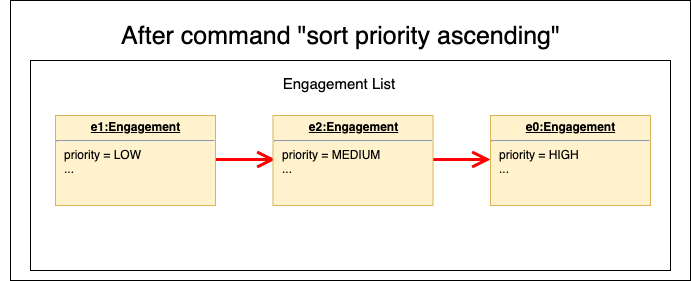
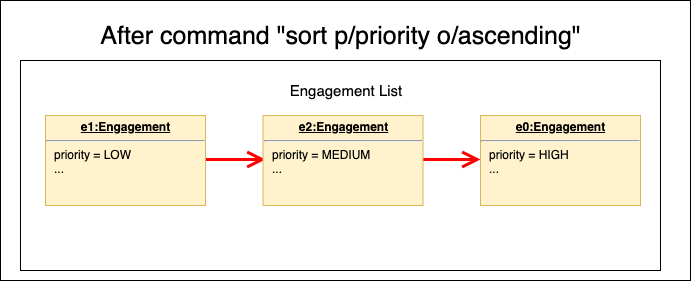
Rebuild pages at 0d759f45ad3cc66ffb670c7cba1c6d874e15a7a1

diff --git a/team/brebeek.html b/team/brebeek.html
@@ -195,7 +195,7 @@ careful tweaks to existing structures.</p>
 <p>Updated part of the find feature (Pull request <a href="https://github.com/AY1920S1-CS2103T-F14-3/main">#111</a>)</p>
 </li>
 <li>
-<p>Wrote additional tests for existing features to increase coverage from 50% to 65% (Pull requests <a href="https://github.com/AY1920S1-CS2103T-F14-3/main">#36</a>, <a href="https://github.com/AY1920S1-CS2103T-F14-3/main">#38</a>)</p>
+<p>Wrote additional tests for existing features to increase coverage from 50% to 65% (e.g. Pull requests <a href="https://github.com/AY1920S1-CS2103T-F14-3/main">#220</a>, <a href="https://github.com/AY1920S1-CS2103T-F14-3/main">#212</a>)</p>
 </li>
 </ul>
 </div>
@@ -205,7 +205,7 @@ careful tweaks to existing structures.</p>
 <div class="ulist">
 <ul>
 <li>
-<p>Did cosmetic tweaks to existing contents of the User Guide: <a href="https://github.com/AY1920S1-CS2103T-F14-3/main">#14</a></p>
+<p>Did cosmetic tweaks to existing contents of the User Guide: <a href="https://github.com/AY1920S1-CS2103T-F14-3/main">#112</a></p>
 </li>
 </ul>
 </div>
@@ -215,7 +215,7 @@ careful tweaks to existing structures.</p>
 <div class="ulist">
 <ul>
 <li>
-<p>PRs reviewed (with non-trivial review comments): <a href="https://github.com/AY1920S1-CS2103T-F14-3/main">#69</a>, <a href="https://github.com/AY1920S1-CS2103T-F14-3/main">#32</a></p>
+<p>PRs reviewed (with non-trivial review comments): <a href="https://github.com/AY1920S1-CS2103T-F14-3/main">#69</a></p>
 </li>
 <li>
 <p>Contributed to forum discussions (examples:  <a href="https://github.com/nus-cs2103-AY1920S1/addressbook-level3">#11</a>, <a href="https://github.com/nus-cs2103-AY1920S1/addressbook-level3">#1</a>, <a href="https://github.com/nus-cs2103-AY1920S1/addressbook-level3">#13</a>)</p>
@@ -264,7 +264,7 @@ careful tweaks to existing structures.</p>
 <h3 id="sorting-all-appointments-code-sort-code"><a class="link" href="#sorting-all-appointments-code-sort-code">Sorting all appointments : <code>sort</code></a></h3>
 <div class="paragraph">
 <p>Sorts the list of all appointments in the appointment list by the order specified by user.<br>
-Format: <code>sort p/ PROPERTY o/ORDER</code></p>
+Format: <code>sort p/PROPERTY o/ORDER</code></p>
 </div>
 <div class="admonitionblock tip">
 <table>
@@ -346,12 +346,16 @@ Sorts the list displayed in ascending order of start time.</p>
 </td>
 <td class="content">
 After sorting, commands that require INDEX as an input field (e.g. <code>delete</code>) will take in INDEX with regards to the new list  displayed. e.g. <code>delete 1</code> will delete the current first engagement displayed.
-=== Undoing the previous command : <code>undo</code>
-Undoes the previous command, provided that it exists.<br>
-Format: <code>undo</code>
 </td>
 </tr>
 </table>
+</div>
+</div>
+<div class="sect2">
+<h3 id="undoing-the-previous-command-code-undo-code"><a class="link" href="#undoing-the-previous-command-code-undo-code">Undoing the previous command : <code>undo</code></a></h3>
+<div class="paragraph">
+<p>Undoes the previous command, provided that it exists.<br>
+Format: <code>undo</code></p>
 </div>
 <div class="admonitionblock tip">
 <table>
@@ -498,12 +502,24 @@ Each positive sequence comparator compares two <code>Engagements</code> with the
 </div>
 </div>
 <div class="paragraph">
-<p>Step 2. The user executes <code>sort priority ascending</code> command to sort the engagement list in ascending order of priority. The <code>sort</code> command calls <code>Model#setComparator()</code>, causing the <code>currentComparator</code> in ModelManager to assume the value <code>EngagementComparator#PRIORITY</code>. The command then calls <code>Model#updateSortedEngagementList</code> to execute the sorting.</p>
+<p>Step 2. The user executes <code>sort p/priority o/ascending</code> command to sort the engagement list in ascending order of priority. The <code>sort</code> command calls <code>Model#setComparator()</code>, causing the <code>currentComparator</code> in ModelManager to assume the value <code>EngagementComparator#PRIORITY</code>. The command then calls <code>Model#updateSortedEngagementList</code> to execute the sorting.</p>
 </div>
 <div class="imageblock" style="text-align: center">
 <div class="content">
 <img src="../images/SortListState1.png" alt="SortListState1" width="450">
 </div>
+</div>
+<div class="admonitionblock note">
+<table>
+<tr>
+<td class="icon">
+<i class="fa icon-note" title="Note"></i>
+</td>
+<td class="content">
+The parsing of <code>sort</code> follows the interactive parsing structure <strong><em>Typee</em></strong> adopts, where various stages are created while parsing. See Sequence Diagram below.
+</td>
+</tr>
+</table>
 </div>
 <div class="paragraph">
 <p>The following sequence diagram shows how the sort operation works:</p>
@@ -686,4 +702,4 @@ and carry out administrative tasks.</p>
 </dl>
 </div>
 </div>
-</div></div><div id="footer"><div class="container"><div id="footer-text">Last updated 2019-11-11 02:19:47 UTC</div></div></div></body></html>
+</div></div><div id="footer"><div class="container"><div id="footer-text">Last updated 2019-11-11 02:46:38 UTC</div></div></div></body></html>

diff --git a/DeveloperGuide.html b/DeveloperGuide.html
@@ -452,7 +452,7 @@ If the <code>versionPointer</code> is at index <code>historyList.size() - 1</cod
 </table>
 </div>
 <div class="paragraph">
-<p>Step 5. The user then decides to execute the command <code>sort start ascending</code>. Commands that do not modify the engagement list, such as <code>sort</code>, will usually not call <code>Model#saveEngagementList()</code>, <code>Model#undoEngagementList()</code> or <code>Model#redoEngagementList()</code>. Thus, the <code>historyList</code> remains unchanged.</p>
+<p>Step 5. The user then decides to execute the command <code>sort p/start o/ascending</code>. Commands that do not modify the engagement list, such as <code>sort</code>, will usually not call <code>Model#saveEngagementList()</code>, <code>Model#undoEngagementList()</code> or <code>Model#redoEngagementList()</code>. Thus, the <code>historyList</code> remains unchanged.</p>
 </div>
 <div class="imageblock" style="text-align: center">
 <div class="content">
@@ -1079,12 +1079,24 @@ Each positive sequence comparator compares two <code>Engagements</code> with the
 </div>
 </div>
 <div class="paragraph">
-<p>Step 2. The user executes <code>sort priority ascending</code> command to sort the engagement list in ascending order of priority. The <code>sort</code> command calls <code>Model#setComparator()</code>, causing the <code>currentComparator</code> in ModelManager to assume the value <code>EngagementComparator#PRIORITY</code>. The command then calls <code>Model#updateSortedEngagementList</code> to execute the sorting.</p>
+<p>Step 2. The user executes <code>sort p/priority o/ascending</code> command to sort the engagement list in ascending order of priority. The <code>sort</code> command calls <code>Model#setComparator()</code>, causing the <code>currentComparator</code> in ModelManager to assume the value <code>EngagementComparator#PRIORITY</code>. The command then calls <code>Model#updateSortedEngagementList</code> to execute the sorting.</p>
 </div>
 <div class="imageblock" style="text-align: center">
 <div class="content">
 <img src="images/SortListState1.png" alt="SortListState1" width="450">
 </div>
+</div>
+<div class="admonitionblock note">
+<table>
+<tr>
+<td class="icon">
+<i class="fa icon-note" title="Note"></i>
+</td>
+<td class="content">
+The parsing of <code>sort</code> follows the interactive parsing structure <strong><em>Typee</em></strong> adopts, where various stages are created while parsing. See Sequence Diagram below.
+</td>
+</tr>
+</table>
 </div>
 <div class="paragraph">
 <p>The following sequence diagram shows how the sort operation works:</p>
@@ -2115,4 +2127,4 @@ Expected: The most recent window size and location is retained.</p>
 </div>
 </div>
 </div>
-</div></div><div id="footer"><div class="container"><div id="footer-text">Last updated 2019-11-11 02:19:46 UTC</div></div></div></body></html>
+</div></div><div id="footer"><div class="container"><div id="footer-text">Last updated 2019-11-11 02:46:38 UTC</div></div></div></body></html>

diff --git a/team/johndoe.html b/team/johndoe.html
@@ -271,7 +271,7 @@ If the <code>versionPointer</code> is at index <code>historyList.size() - 1</cod
 </table>
 </div>
 <div class="paragraph">
-<p>Step 5. The user then decides to execute the command <code>sort start ascending</code>. Commands that do not modify the engagement list, such as <code>sort</code>, will usually not call <code>Model#saveEngagementList()</code>, <code>Model#undoEngagementList()</code> or <code>Model#redoEngagementList()</code>. Thus, the <code>historyList</code> remains unchanged.</p>
+<p>Step 5. The user then decides to execute the command <code>sort p/start o/ascending</code>. Commands that do not modify the engagement list, such as <code>sort</code>, will usually not call <code>Model#saveEngagementList()</code>, <code>Model#undoEngagementList()</code> or <code>Model#redoEngagementList()</code>. Thus, the <code>historyList</code> remains unchanged.</p>
 </div>
 <div class="imageblock" style="text-align: center">
 <div class="content">
@@ -375,4 +375,4 @@ If the <code>versionPointer</code> is at index <code>historyList.size() - 1</cod
 <p><em>{Optionally, you may include other projects in your portfolio.}</em></p>
 </div>
 </div>
-</div></div><div id="footer"><div class="container"><div id="footer-text">Last updated 2019-11-11 02:19:47 UTC</div></div></div></body></html>
+</div></div><div id="footer"><div class="container"><div id="footer-text">Last updated 2019-11-11 02:46:38 UTC</div></div></div></body></html>

diff --git a/UserGuide.html b/UserGuide.html
@@ -513,7 +513,7 @@ Format: <code>list</code></p>
 <h3 id="sorting-all-appointments-code-sort-code"><a class="link" href="#sorting-all-appointments-code-sort-code">3.6. Sorting all appointments : <code>sort</code></a></h3>
 <div class="paragraph">
 <p>Sorts the list of all appointments in the appointment list by the order specified by user.<br>
-Format: <code>sort p/ PROPERTY o/ORDER</code></p>
+Format: <code>sort p/PROPERTY o/ORDER</code></p>
 </div>
 <div class="admonitionblock tip">
 <table>
@@ -1143,4 +1143,4 @@ e.g. <code>delete i/3</code></p>
 </ul>
 </div>
 </div>
-</div></div><div id="footer"><div class="container"><div id="footer-text">Last updated 2019-11-11 02:19:46 UTC</div></div></div></body></html>
+</div></div><div id="footer"><div class="container"><div id="footer-text">Last updated 2019-11-11 02:46:38 UTC</div></div></div></body></html>

diff --git a/AboutUs.html b/AboutUs.html
@@ -69,7 +69,7 @@ Responsibilities: Logic</p>
 </div>
 </div>
 <div class="paragraph">
-<p>[<a href="http://github.com/brebeek">github</a>] [<a href="team/johndoe.html">portfolio</a>]</p>
+<p>[<a href="http://github.com/brebeek">github</a>] [<a href="https://ay1920s1-cs2103t-f14-3.github.io/main/team/brebeek.html">portfolio</a>]</p>
 </div>
 <div class="paragraph">
 <p>Role: Developer<br>
@@ -94,4 +94,4 @@ Responsibilities: Typing game</p>
 <hr>
 </div>
 </div>
-</div></div><div id="footer"><div class="container"><div id="footer-text">Last updated 2019-11-11 02:19:46 UTC</div></div></div></body></html>
+</div></div><div id="footer"><div class="container"><div id="footer-text">Last updated 2019-11-11 02:46:38 UTC</div></div></div></body></html>

diff --git a/ContactUs.html b/ContactUs.html
@@ -12,4 +12,4 @@
 <p><strong>Email us</strong> : You can also reach us at <code>lyskevin@gmail.com</code> (Kevin), <code>e0318604@u.nus.edu</code> (Gi Hun), <code>yuchen_hu@u.nus.edu</code> (Yuchen), <code>e0341290@u.nus.edu</code> (Sudharshan), <code>e0309667@u.nus.edu</code> (Jun Hao)</p>
 </li>
 </ul>
-</div></div><div id="footer"><div class="container"><div id="footer-text">Last updated 2019-11-11 02:19:46 UTC</div></div></div></body></html>
+</div></div><div id="footer"><div class="container"><div id="footer-text">Last updated 2019-11-11 02:46:38 UTC</div></div></div></body></html>

diff --git a/tutorials/RemovingFields.html b/tutorials/RemovingFields.html
@@ -175,4 +175,4 @@ While keeping the <code>address</code> field in the json files does not cause th
 <p>You can go through each individual <code>json</code> file and manually remove the <code>address</code> field.</p>
 </div>
 </div>
-</div></div><div id="footer"><div class="container"><div id="footer-text">Last updated 2019-11-11 02:19:47 UTC</div></div></div></body></html>
+</div></div><div id="footer"><div class="container"><div id="footer-text">Last updated 2019-11-11 02:46:38 UTC</div></div></div></body></html>

diff --git a/Testing.html b/Testing.html
@@ -90,4 +90,4 @@ e.g. <code>seedu.address.logic.LogicManagerTest</code></p>
 <div class="title">Figure 1. <code>Accessibility</code> permission is granted to <code>IntelliJ IDEA</code></div>
 </div>
 </div>
-</div></div><div id="footer"><div class="container"><div id="footer-text">Last updated 2019-11-11 02:19:46 UTC</div></div></div></body></html>
+</div></div><div id="footer"><div class="container"><div id="footer-text">Last updated 2019-11-11 02:46:38 UTC</div></div></div></body></html>

diff --git a/tutorials/AddRemark.html b/tutorials/AddRemark.html
@@ -616,4 +616,4 @@ In this case, <code>CommandTestUtil#assertCommandSuccess</code> is the best fit 
 <p>This concludes the tutorial for adding a new <code>Command</code> to AddressBook.</p>
 </div>
 </div>
-</div></div><div id="footer"><div class="container"><div id="footer-text">Last updated 2019-11-11 02:19:47 UTC</div></div></div></body></html>
+</div></div><div id="footer"><div class="container"><div id="footer-text">Last updated 2019-11-11 02:46:38 UTC</div></div></div></body></html>

diff --git a/SettingUp.html b/SettingUp.html
@@ -180,4 +180,4 @@ Having both Travis and AppVeyor ensures your App works on both Unix-based platfo
 </div>
 </div>
 </div>
-</div></div><div id="footer"><div class="container"><div id="footer-text">Last updated 2019-11-11 02:19:46 UTC</div></div></div></body></html>
+</div></div><div id="footer"><div class="container"><div id="footer-text">Last updated 2019-11-11 02:46:38 UTC</div></div></div></body></html>

diff --git a/team/lyskevin.html b/team/lyskevin.html
@@ -576,4 +576,4 @@ The alternative would be to add fixed constraints to the size of each cell but t
 </div>
 </div>
 </div>
-</div></div><div id="footer"><div class="container"><div id="footer-text">Last updated 2019-11-11 02:19:47 UTC</div></div></div></body></html>
+</div></div><div id="footer"><div class="container"><div id="footer-text">Last updated 2019-11-11 02:46:38 UTC</div></div></div></body></html>

diff --git a/UsingCoveralls.html b/UsingCoveralls.html
@@ -111,4 +111,4 @@ If you have not set up Travis CI, see <a href="UsingTravis.html">UsingTravis.ado
 </ol>
 </div>
 </div>
-</div></div><div id="footer"><div class="container"><div id="footer-text">Last updated 2019-11-11 02:19:46 UTC</div></div></div></body></html>
+</div></div><div id="footer"><div class="container"><div id="footer-text">Last updated 2019-11-11 02:46:38 UTC</div></div></div></body></html>
